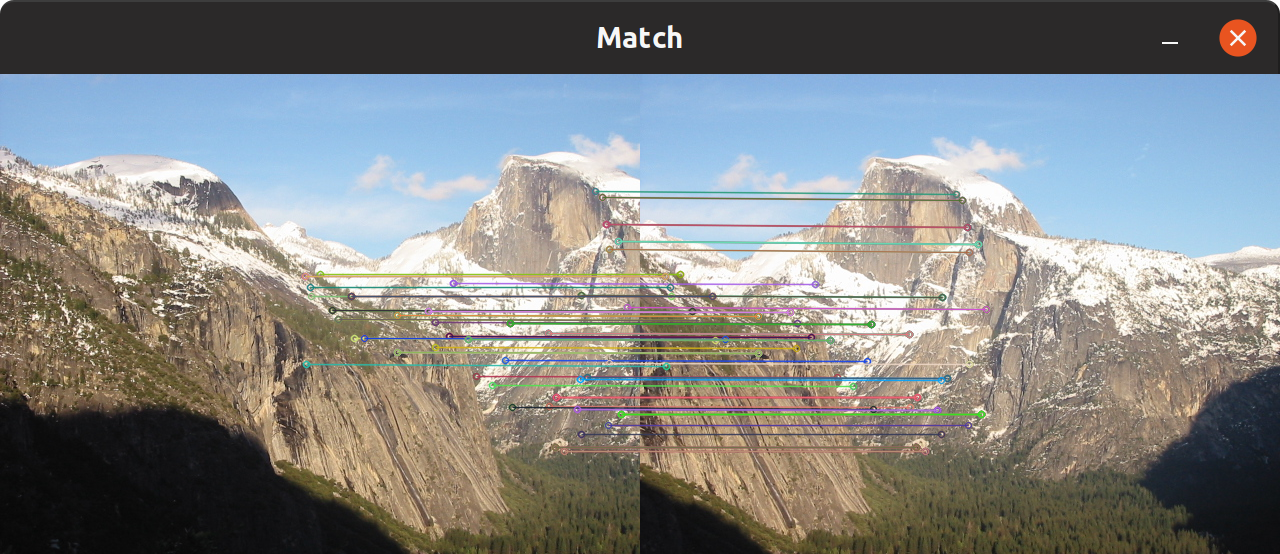
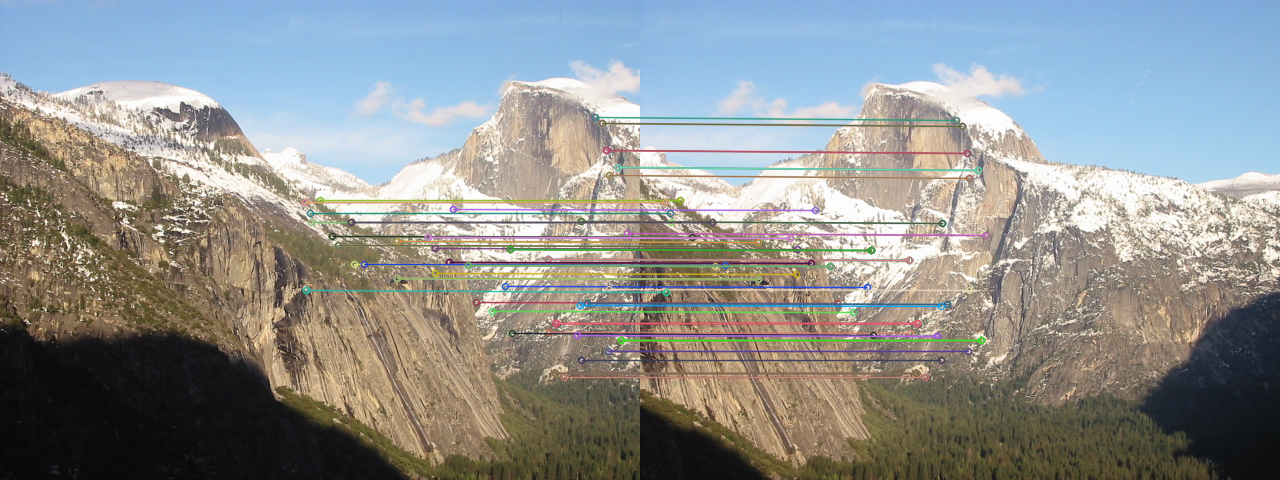
Add screenshot

diff --git a/src/Main.cpp b/src/Main.cpp
@@ -48,4 +48,6 @@ int main(int argc, char* argv[]) {
 	drawMatches(origImage1, keyPoint1, origImage2, keyPoint2, dMatch,out);
 	imshow("Match", out);
 	waitKey();
+	imwrite("screenshot.png", out);
+
 }

diff --git a/README.md b/README.md
@@ -10,3 +10,5 @@ Feature_Detection_and_Matching [image 1] [image 2] [threshold for corner detecti
 Other features:
 1. Rotation invariance 
 2. Contrast invariance
+
+![Matching Result](https://raw.githubusercontent.com/renyming/Image-Feature-Detection-and-Matching/master/screenshot.png)
